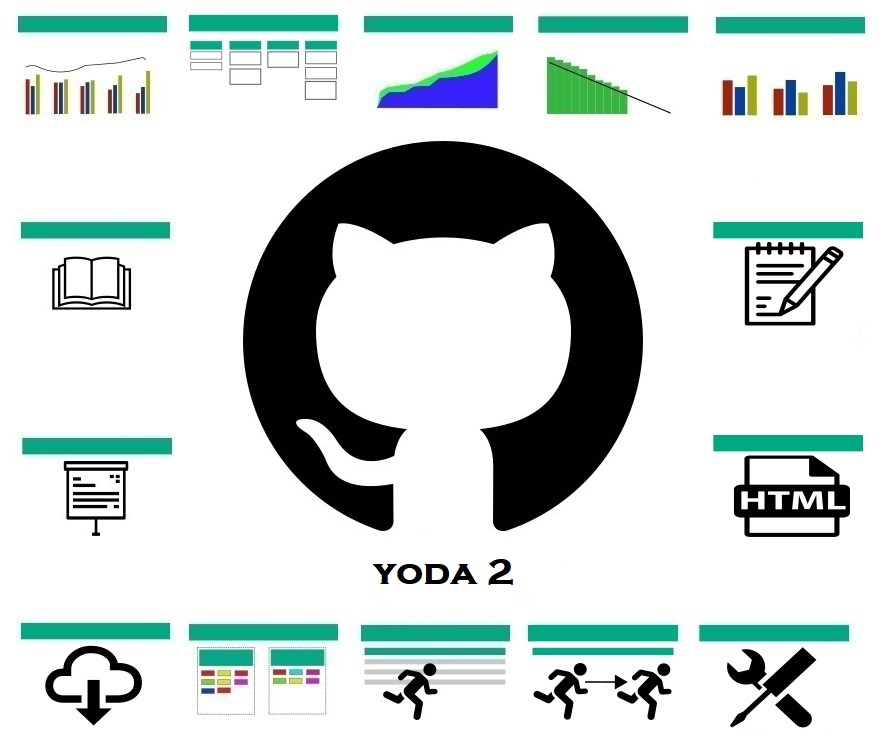
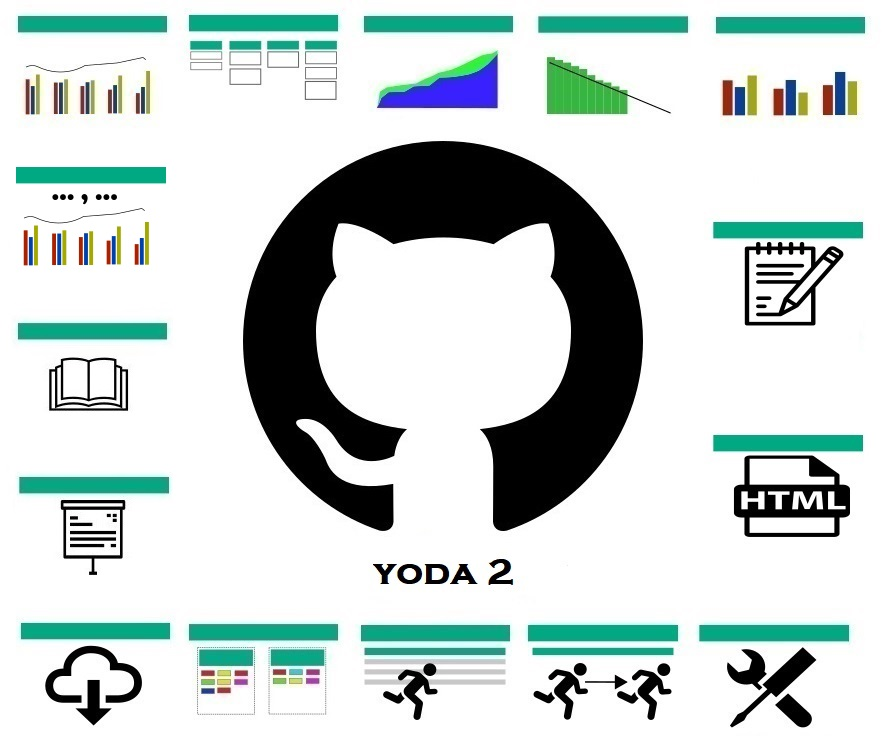
#169 Added to MANUAL, landing page

Changed region(s): [[0.0, 0.2188, 0.214, 0.5625], [0.0, 0.5938, 0.214, 0.7812]]

diff --git a/docs/index.html b/docs/index.html
@@ -37,8 +37,9 @@ OR IN CONNECTION WITH THE SOFTWARE OR THE USE OR OTHER DEALINGS IN THE SOFTWARE.
     <area alt="" title="CFD" href="yoda-cfd.html" shape="rect" coords="356,2,528,133" />
     <area alt="" title="Burndown" href="yoda-burndown.html" shape="rect" coords="532,4,698,137" />
     <area alt="" title="Velocity" href="yoda-velocity.html" shape="rect" coords="706,4,869,137" />
-    <area alt="" title="Manual" href="MANUAL.html" shape="rect" coords="197,361,7,198" />
-    <area alt="" title="Presentation" href="Yoda-Agile-Project-Management-with-GitHub.pdf" shape="rect" coords="190,570,10,424" />
+    <area alt="" title="CSV Time Stats" href="yoda-time-stats-csv.html" shape="rect" coords="172,160,8,280" />
+    <area alt="" title="Manual" href="MANUAL.html" shape="rect" coords="197,300,7,430" />
+    <area alt="" title="Presentation" href="Yoda-Agile-Project-Management-with-GitHub.pdf" shape="rect" coords="190,580,10,464" />
     <area alt="" title="Exporter" href="yoda-exporter.html" shape="rect" coords="9,611,176,727" />
     <area alt="" title="Label Manager" href="yoda-label-manager.html" shape="rect" coords="182,612,346,727" />
     <area alt="" title="Milestone Manager" href="yoda-milestone-manager.html" shape="rect" coords="352,613,518,722" />

diff --git a/docs/yoda-utils.js b/docs/yoda-utils.js
@@ -1604,6 +1604,7 @@ var yoda = (function() {
 			$("#yodamenu").append("<a href='javascript:yoda.openYodaTool(\"yoda-exporter.html\", true)'>Issue Exporter</a>");
 			$("#yodamenu").append("<a href='javascript:yoda.openYodaTool(\"yoda-copy-tasks.html\", false)'>Task Copier</a>");
 			$("#yodamenu").append("<a href='javascript:yoda.openYodaTool(\"yoda-export-web.html\", true)'>Export to Web Pages</a>");
+			$("#yodamenu").append("<a href='javascript:yoda.openYodaTool(\"yoda-time-stats-csv.html\", true)'>CSV based Statistics</a>");
 			$("#yodamenu").append('<a href="MANUAL.html">User Manual</a>');
 			$("#yodamenu").append("<a href='javascript:yoda.openYodaTool(\"yoda-admin.html\", false)'>Admin Settings</a>");
 			$("#yodamenu").append("<a href='javascript:yoda.hideTopPanel()'>Hide Panel</a>");

diff --git a/docs/yoda-time-stats-csv.html b/docs/yoda-time-stats-csv.html
@@ -27,7 +27,7 @@ OR IN CONNECTION WITH THE SOFTWARE OR THE USE OR OTHER DEALINGS IN THE SOFTWARE.
  -->
 
 <title>GitHub CSV Time Chart</title>
-<link rel="icon" href="time-stats-icon-32.png" type="image/png" />
+<link rel="icon" href="time-stats-icon-csv-32.png" type="image/png" />
 <script type='text/javascript' src="https://cdnjs.cloudflare.com/ajax/libs/jquery/3.5.1/jquery.min.js"></script>
 <script type='text/javascript' src="https://cdnjs.cloudflare.com/ajax/libs/select2/4.0.13/js/select2.min.js"></script>
 <script type='text/javascript' src="https://cdnjs.cloudflare.com/ajax/libs/Chart.js/2.9.3/Chart.bundle.js"></script>

diff --git a/docs/yoda-time-stats-csv.js b/docs/yoda-time-stats-csv.js
@@ -138,6 +138,9 @@ function createChart() {
 				bars.push(v);
 		}
 		bars.sort();
+		
+		// TODO: Do we want to make special sorting for Severities? Cheating, but hey..
+		// CRITICAL, HIGH, MEDIUM, LOW, INFORMATIONAL
 	}
 	console.log("Labels: " + bars);
 		

diff --git a/docs/MANUAL.md b/docs/MANUAL.md
@@ -409,10 +409,17 @@ Example:
 `<iframe width="1200px" height="600px" style="border:0" src="https://pages.github.com/HewlettPackard/yoda/yoda-time-stats.html?owner=HewlettPackard&amp;repo=yoda-demo&amp;draw=true&amp;hideheader=true"></iframe>`
 
 
-# Selecting repos based on topics
+# Selecting repos based on topics or name wildcarding
 
 It is possible to scope repositories based on a comma-separate list of topics that must be presents on the repository. This is done using the `repotopic` argument.
 
-# Selecting repos based on name wildcarding
+It is also possible to use the `repolist` argument to specify a search argument using a wildcard at the end of a `repolist` argument (only one element). Exampe `repolist=yoda*`. This will mirror the repository selection search facility available in Yoda.
 
-It is possible to use the `repolist` argument to specify a search argument using a wildcard at the end of a `repolist` argument (only one element). Exampe `repolist=yoda*`. This will mirror the repository selection search facility available in Yoda.
+
+# Using Yoda to split CSV time-series files stored on GitHub
+
+A special version of the statistics time based report is available. The main focus is to plot occurances of events (initial scope was security vulnerability events reported by scanning tools) in a similar way as is done for issues. Instead of scoping GitHub issues, the first line is used to point to a CSV file stored in GitHub.
+
+It is possible to apply filters based on the identified columns and their values, and further to split the bars according to one of the columns. Hopefully the tool should be fairly self-explanatory (read: lazy documentation). As usual URL arguments will be updated to reflect graph parameters in order that the URL can be stored and reused, for example by embedding into another Web Page as previously described.
+
+CSV based issue statistics tool available [here](yoda-time-stats-csv.html).
